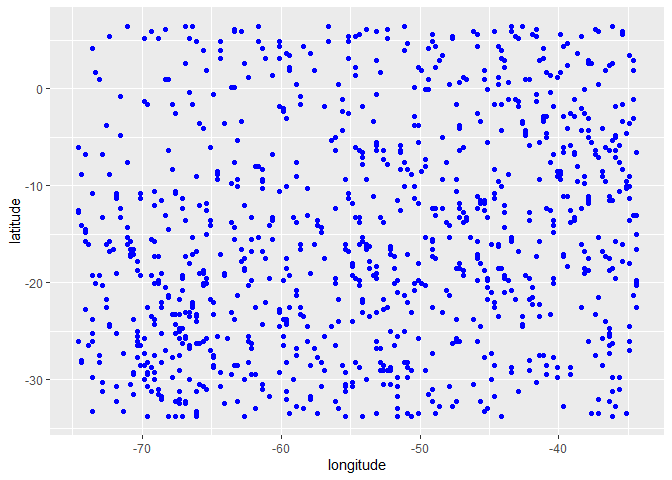
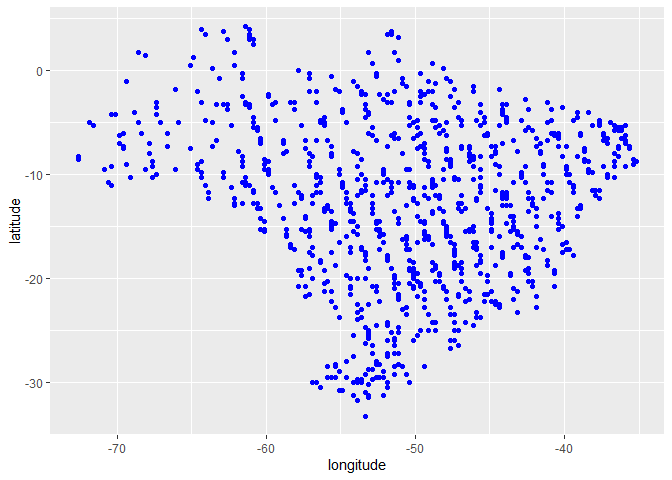
mapeando

diff --git a/README.md b/README.md
@@ -23,6 +23,9 @@ instalação do pacote `{fco2}`.
 ``` r
 ## Instalando pacotes (se necessário)
 # install.packages("devtools")
+# Sys.getenv("GITHUB_PAT")
+# Sys.unsetenv("GITHUB_PAT")
+# Sys.getenv("GITHUB_PAT")
 # devtools::install_github("arpanosso/fco2r")
 
 library(tidyverse)
@@ -33,28 +36,28 @@ library(fco2r)
 ### Conhecendo a base de dados
 
 ``` r
-help(oco2)
+help(oco2_br)
 #> starting httpd help server ... done
-glimpse(oco2)
-#> Rows: 361,615
+glimpse(oco2_br)
+#> Rows: 146,646
 #> Columns: 11
-#> $ longitude                              <dbl> -74.58225, -74.58225, -74.58225~
-#> $ longitude_bnds                         <chr> "-74.70703125:-74.4574652778", ~
-#> $ latitude                               <dbl> -30.22572489, -29.97654828, -29~
-#> $ latitude_bnds                          <chr> "-30.3503131952:-30.1011365845"~
-#> $ time_yyyymmddhhmmss                    <dbl> 2.014091e+13, 2.014091e+13, 2.0~
-#> $ time_bnds_yyyymmddhhmmss               <chr> "20140909000000:20140910000000"~
+#> $ longitude                              <dbl> -70.33963, -70.33963, -70.33963~
+#> $ longitude_bnds                         <chr> "-70.4644097222:-70.21484375", ~
+#> $ latitude                               <dbl> -5.806417, -5.557240, -5.058887~
+#> $ latitude_bnds                          <chr> "-5.93100534001:-5.68182872924"~
+#> $ time_yyyymmddhhmmss                    <dbl> 2.014092e+13, 2.014092e+13, 2.0~
+#> $ time_bnds_yyyymmddhhmmss               <chr> "20140915000000:20140916000000"~
 #> $ altitude_km                            <dbl> 3307.8, 3307.8, 3307.8, 3307.8,~
 #> $ alt_bnds_km                            <chr> "0.0:6615.59960938", "0.0:6615.~
-#> $ fluorescence_offset_relative_771nm_idp <dbl> 0.012406800, 0.010696600, -0.00~
-#> $ fluorescence_offset_relative_757nm_idp <dbl> -3.58630e+00, 8.81219e-02, -3.6~
-#> $ xco2_moles_mole_1                      <dbl> 0.000394333, 0.000395080, 0.000~
+#> $ fluorescence_offset_relative_771nm_idp <dbl> 0.0167236, 0.0187703, 0.0167454~
+#> $ fluorescence_offset_relative_757nm_idp <dbl> 0.01495360, 0.01348060, 0.01151~
+#> $ xco2_moles_mole_1                      <dbl> 0.000391583, 0.000394184, 0.000~
 ```
 
 ### Alguns gráficos
 
 ``` r
-oco2 %>% 
+oco2_br %>% 
   sample_n(1000) %>% 
   ggplot(aes(x = longitude, y = latitude)) + 
   geom_point(color = "blue")
@@ -75,7 +78,7 @@ br <- geobr::read_country(showProgress = FALSE)
 br %>% 
   ggplot() +
   geom_sf(fill = "white") +
-    geom_point(data=oco2 %>% 
+    geom_point(data=oco2_br %>% 
                  sample_n(1000),
              aes(x=longitude,y=latitude),
              shape=3,
@@ -86,4 +89,4 @@ br %>%
 ![](README_files/figure-gfm/unnamed-chunk-6-1.png)<!-- -->
 
 Observe que utilizamos `dplyr::sample_n()` para retirar apenas 1000
-amostras do total do banco de dados 361, 615.
+amostras do total do banco de dados 146, 646.
